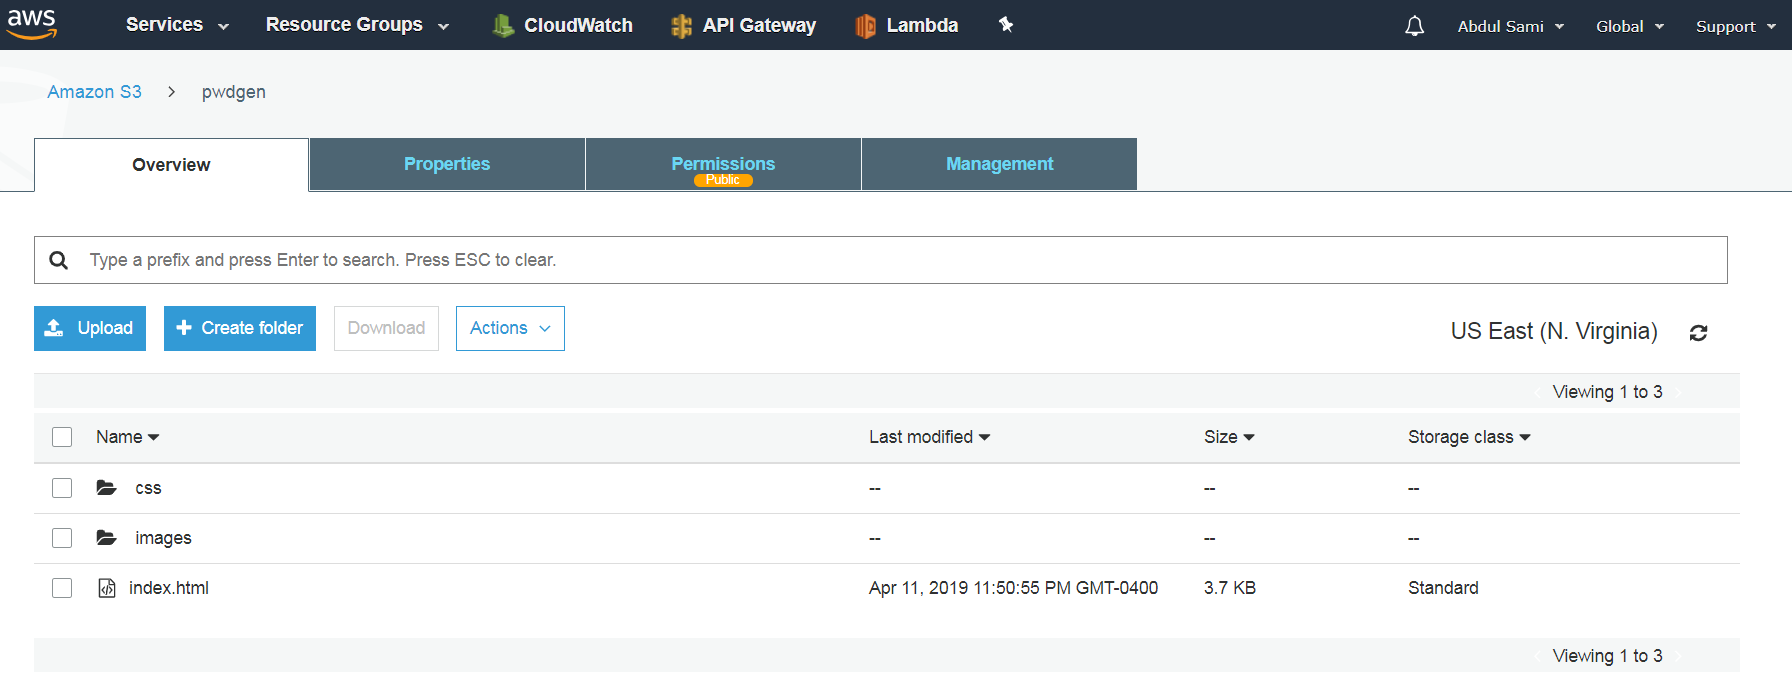
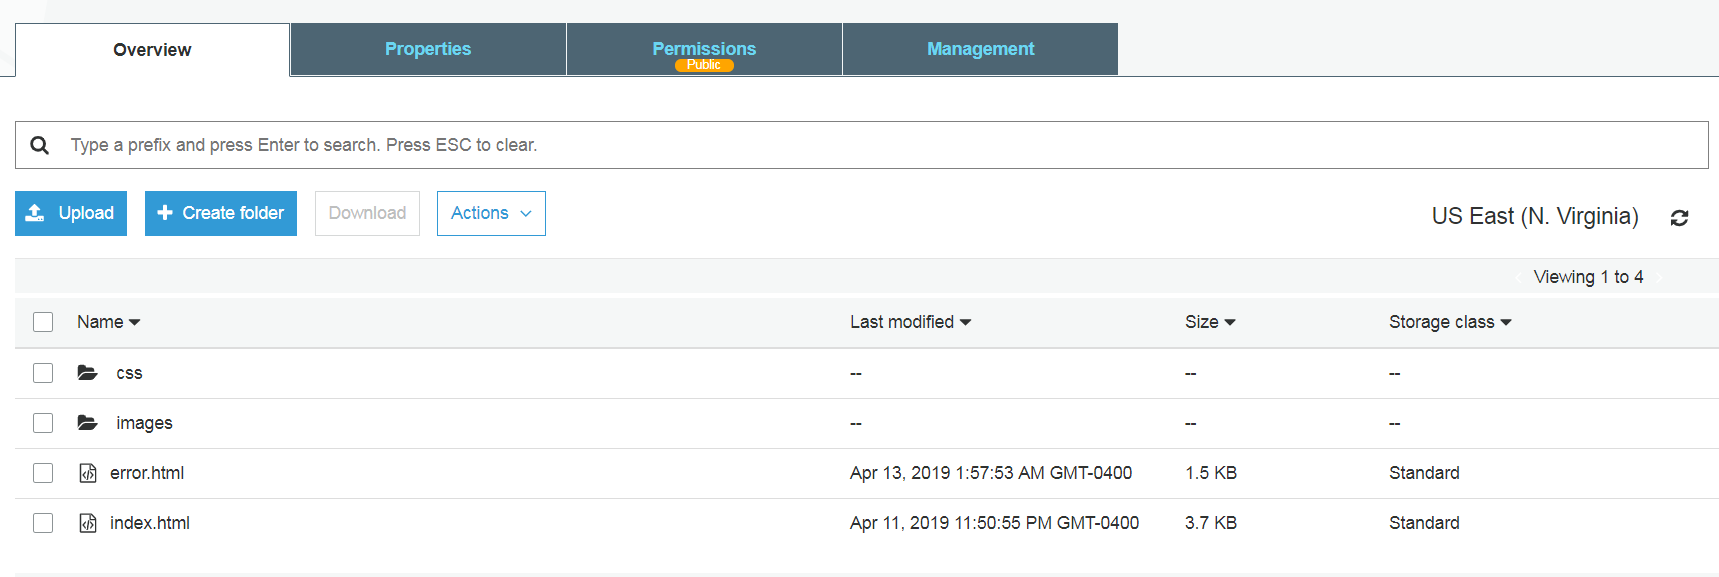
Add files via upload
Updated ReadMe

diff --git a/ReadMe.md b/ReadMe.md
@@ -1,8 +1,9 @@
-# Static Website Hosting on Amazon S3
+# How to host Static Website on Amazon S3
 
-Amazon Simple Storage Service (Amazon S3) can be used to host static Websites without a need for a Web server. S3 buckets can be used to host the HTML files for entire static websites.
+Amazon Simple Storage Service (Amazon S3) can be used to host static Websites without a need for a Web server (at an extremely low cost). S3 buckets can be used to host the HTML, CSS and JavaScript files for entire static websites.
 
-A website is static when the system services used to render web pages and scripts are all client rather than server-based.
+## Introduction
+A website is static when the system services used to render web pages and scripts are all client rather than server-based. On the other hand, a dynamic website relies on server-side processing, including server-side scripts such as PHP, JSP, or ASP.NET
 
 Most websites are becoming static websites which means they run zero server side code and consist of only HTML, CSS and JavaScript. With no server side code to run, there is no reason to host them on a traditional server.
 
@@ -26,10 +27,18 @@ Here are some of the advantages of hosting site on S3
 
 * **Availability**: In addition, by hosting with Amazon S3, the website is inherently highly available.
  
+## Prerequisites
 
-## Deployment Instructions
+An AWS account
 
-Below are the steps to setup static Website on Amazon S3. Open AWS Management console. Select S3 under Storage.
+<br/>
+<img src="Documentation/Images/AWS-Free.PNG" alt="S3 Static Website Hosting"/>
+
+## Set-Up Instructions
+
+Below are the steps to deploy static Website on Amazon S3. You can follow these instructions to deploy your own static Website.
+
+Open AWS Management console. Select S3 under Storage.
 
 ### Step 1 - Create an S3 Bucket
 
@@ -44,15 +53,23 @@ When you first create an S3 bucket, you select the AWS Region in which the files
 <br/>
 <img src="Documentation/Images/Step1-CreateBucket.PNG" alt="Create Bucket"/>
 
-### Step 2 - Upload Content of Website
+### Step 2 - Upload Content of your Website
 
 Upload the website contents to your S3 bucket including sub-folders.
+
+For Example:
+You can use sample Website "Website" folder contents (provided in this repository).
+
+* index.html
+* error.html
+* css
+* images
 
 <br/>
 <img src="Documentation/Images/Step2-UploadContents.PNG" alt="Upload Contents"/>
 
 
-### Step 3 - Add a Bucket Policy to Allow Public Reads
+### Step 3 - Add a Bucket Policy to allow Public Read Access
 
 Go to Permissions Tab and update Public Access Setting:
 
@@ -92,8 +109,7 @@ In order to serve assets via url, you need to enable Website Hosting
 Go to Properties and enable "Static Website Hosting" option
 
 Note the endpoint.
-For Example:
-http://{bucket-name}.s3-website-us-east-1.amazonaws.com
+http://{bucket-name}.s3-website-{AWS-Region}.amazonaws.com
 
 <br/>
 <img src="Documentation/Images/Step4-A.PNG" alt="Enable Website Hosting"/>
@@ -101,10 +117,10 @@ http://{bucket-name}.s3-website-us-east-1.amazonaws.com
 <br/>
 <img src="Documentation/Images/Step4-B.PNG" alt="Enable Website Hosting"/>
 
-### Step 5 - Access Your Website (Validation)
+### Step 5 - Access Your Website (Testing/Validation)
 
 Access the site in browser:
-http://{bucket-name}.s3-website-us-east-1.amazonaws.com
+http://{bucket-name}.s3-website-{AWS-Region}.amazonaws.com
 
 For Example:
 <a href="http://pwdgen.s3-website-us-east-1.amazonaws.com/">http://pwdgen.s3-website-us-east-1.amazonaws.com/</a>
@@ -118,6 +134,7 @@ For Example:
 * [Hosting a Static Website on Amazon S3](https://docs.aws.amazon.com/AmazonS3/latest/dev/WebsiteHosting.html) 
 * [Example Walkthroughs - Hosting Websites on Amazon S3](https://docs.aws.amazon.com/AmazonS3/latest/dev/hosting-websites-on-s3-examples.html)
 * [How to Host a Website on S3 Without Getting Lost in the Sear](https://medium.freecodecamp.org/how-to-host-a-website-on-s3-without-getting-lost-in-the-sea-e2b82aa6cd38)
+* [Setup AWS S3 static website hosting using SSL](https://medium.com/@sbuckpesch/setup-aws-s3-static-website-hosting-using-ssl-acm-34d41d32e394)
 
 ## Authors
 
